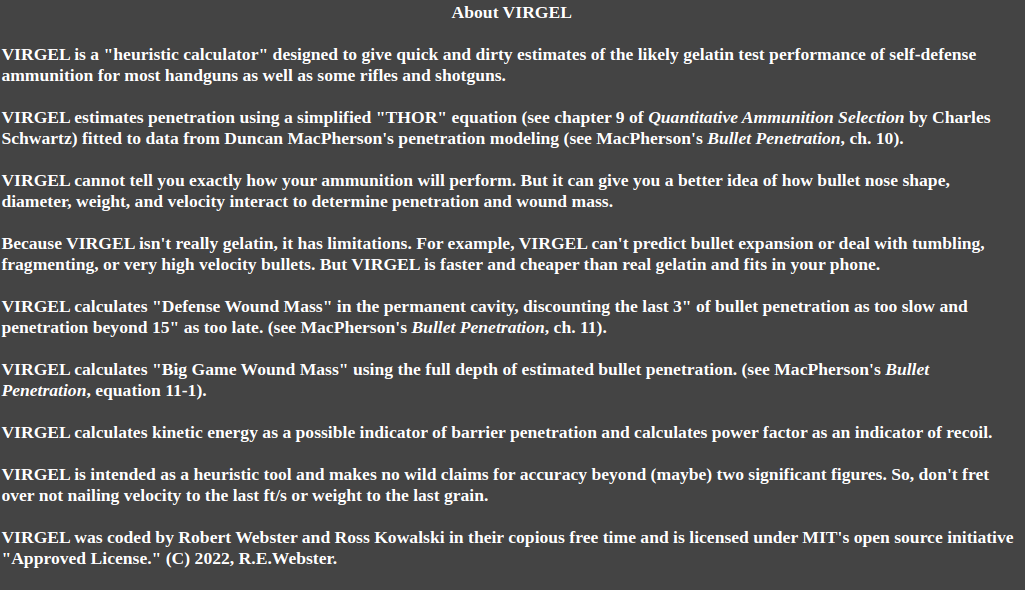
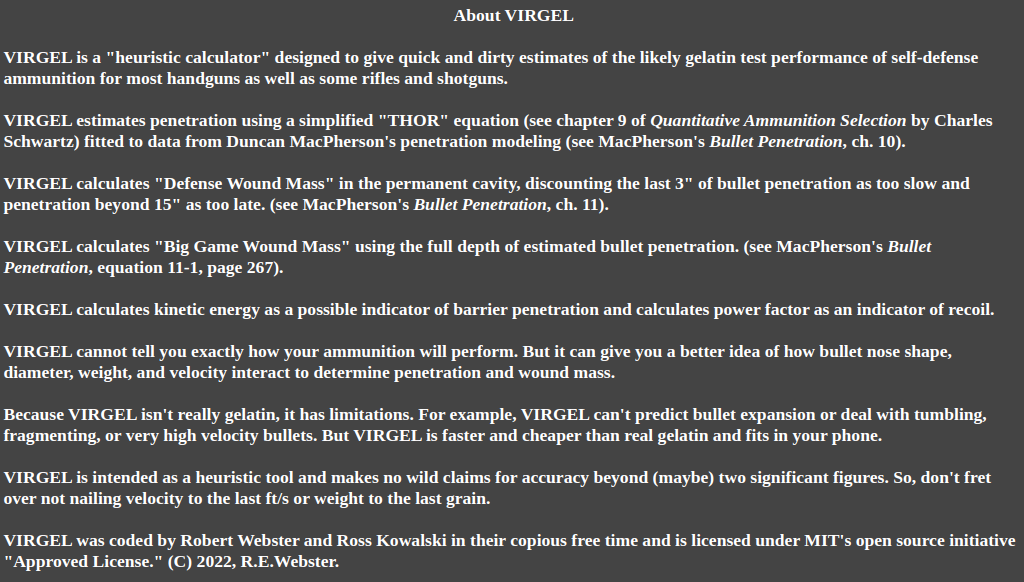
Re-ordered About

diff --git a/index.html b/index.html
@@ -223,6 +223,17 @@ VIRGEL estimates penetration using a simplified "THOR" equation (see chapter 9 o
 
 <br><br>
 
+VIRGEL calculates "Defense Wound Mass" in the permanent cavity, discounting the last 3" of bullet penetration as too slow and penetration beyond 15" as too late. (see MacPherson's <i>Bullet Penetration</i>, ch. 11).
+
+<br><br>
+
+VIRGEL calculates "Big Game Wound Mass" using the full depth of estimated bullet penetration.  (see MacPherson's <i>Bullet Penetration</i>, equation 11-1, page 267).
+
+<br><br>
+
+VIRGEL calculates kinetic energy as a possible indicator of barrier penetration and calculates power factor as an indicator of recoil.
+
+<br><br>
 
 VIRGEL cannot tell you exactly how your ammunition will perform. But it can give you a better idea of how bullet nose shape, diameter, weight, and velocity interact to determine penetration and wound mass.
 
@@ -232,24 +243,9 @@ Because VIRGEL isn't really gelatin, it has limitations. For example, VIRGEL can
 
 <br><br>
 
-
-
-VIRGEL calculates "Defense Wound Mass" in the permanent cavity, discounting the last 3" of bullet penetration as too slow and penetration beyond 15" as too late.
-
-<br><br>
-
-VIRGEL calculates "Big Game Wound Mass" using the full depth of estimated bullet penetration.
-
-<br><br>
-
-VIRGEL calculates kinetic energy as a possible indicator of barrier penetration and calculates power factor as an indicator of recoil.
-
-<br><br>
-
 VIRGEL is intended as a heuristic tool and makes no wild claims for accuracy beyond (maybe) two significant figures. So, don't fret over not nailing velocity to the last ft/s or weight to the last grain.
 
 <br><br>
-
 
 VIRGEL was coded by Robert Webster and Ross Kowalski in their copious free time and is licensed under MIT's open source initiative "Approved License." (C) 2022, R.E.Webster.</b>
 
@@ -454,18 +450,22 @@ function DrawThisLoad(ypos)
 }
 
 
-
-
-
 function calculate () {
   switch(nose.value){
-    case "1": phi=1.00; alpha=0.6887; break;
-    case "2": phi=0.66; alpha=0.7382; break;
-    case "3": phi=0.66; alpha=0.7299; break;
-    case "4": phi=0.66; alpha=0.7281; break;
-    case "5": phi=0.50; alpha=0.7485; break;
-    case "6": phi=0.82; alpha=0.7411; break;
+    case "1": phi=1.00; alpha=0.6887; break;  //WC
+    case "2": phi=0.66; alpha=0.7382; break;  //TC
+    case "3": phi=0.66; alpha=0.7299; break;  //SWC
+    case "4": phi=0.66; alpha=0.7281; break;  //RN
+    case "5": phi=0.50; alpha=0.7485; break;  //RB
+    case "6": phi=0.82; alpha=0.7411; break;  //MSH
   }
+  
+  
+  
+  
+  
+  
+  
   nose_output.innerHTML = bold_shape();
   var pf = (velocity.value * weight.value /1000);
   document.getElementById("PF_value").innerHTML = ` ${Math.round(pf)}`;
